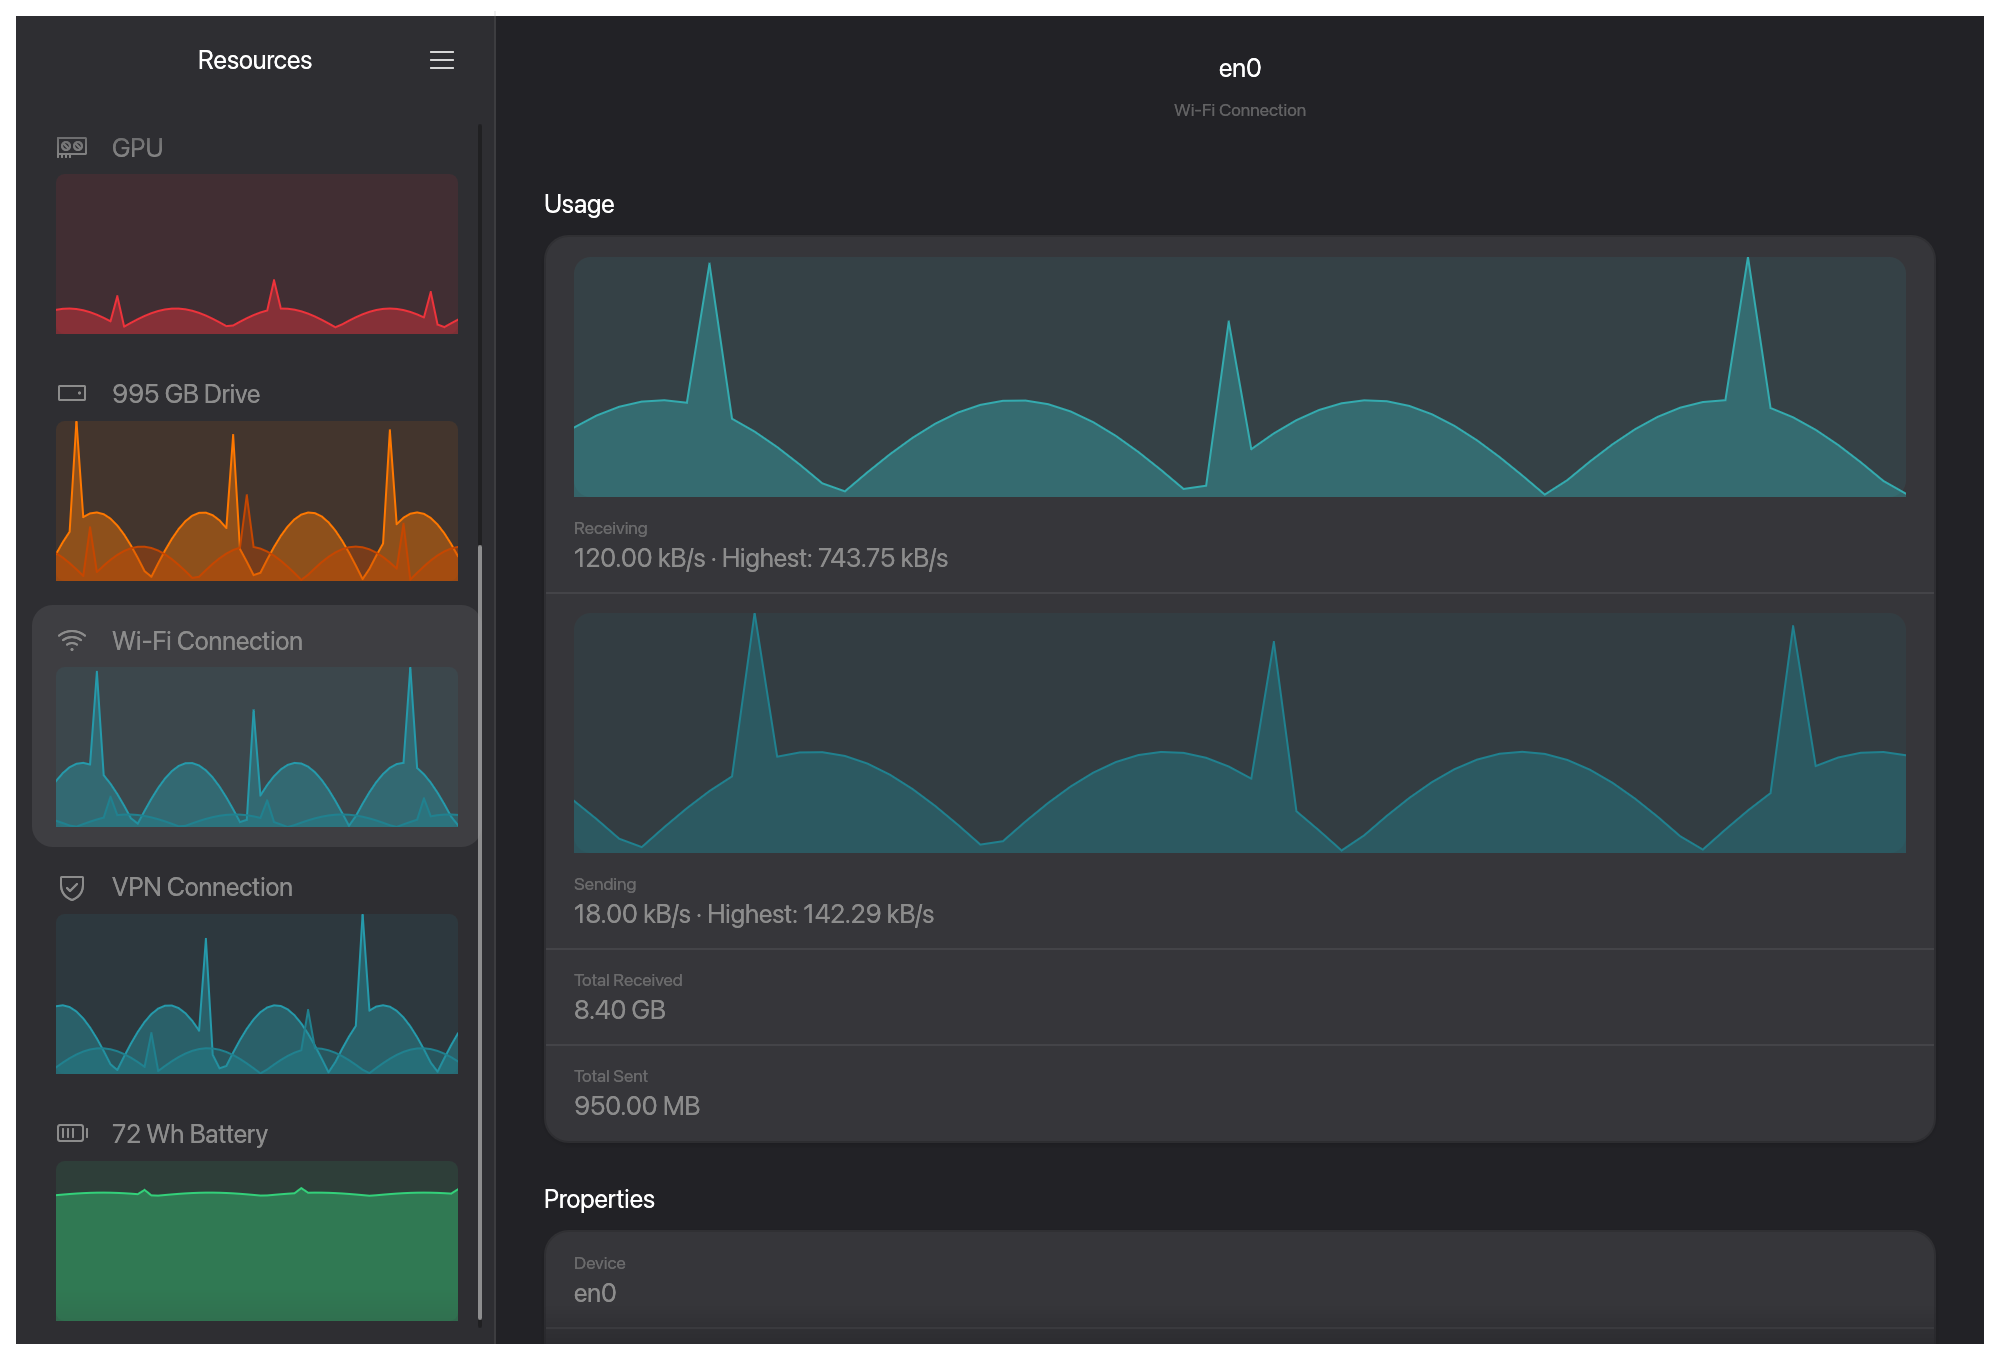
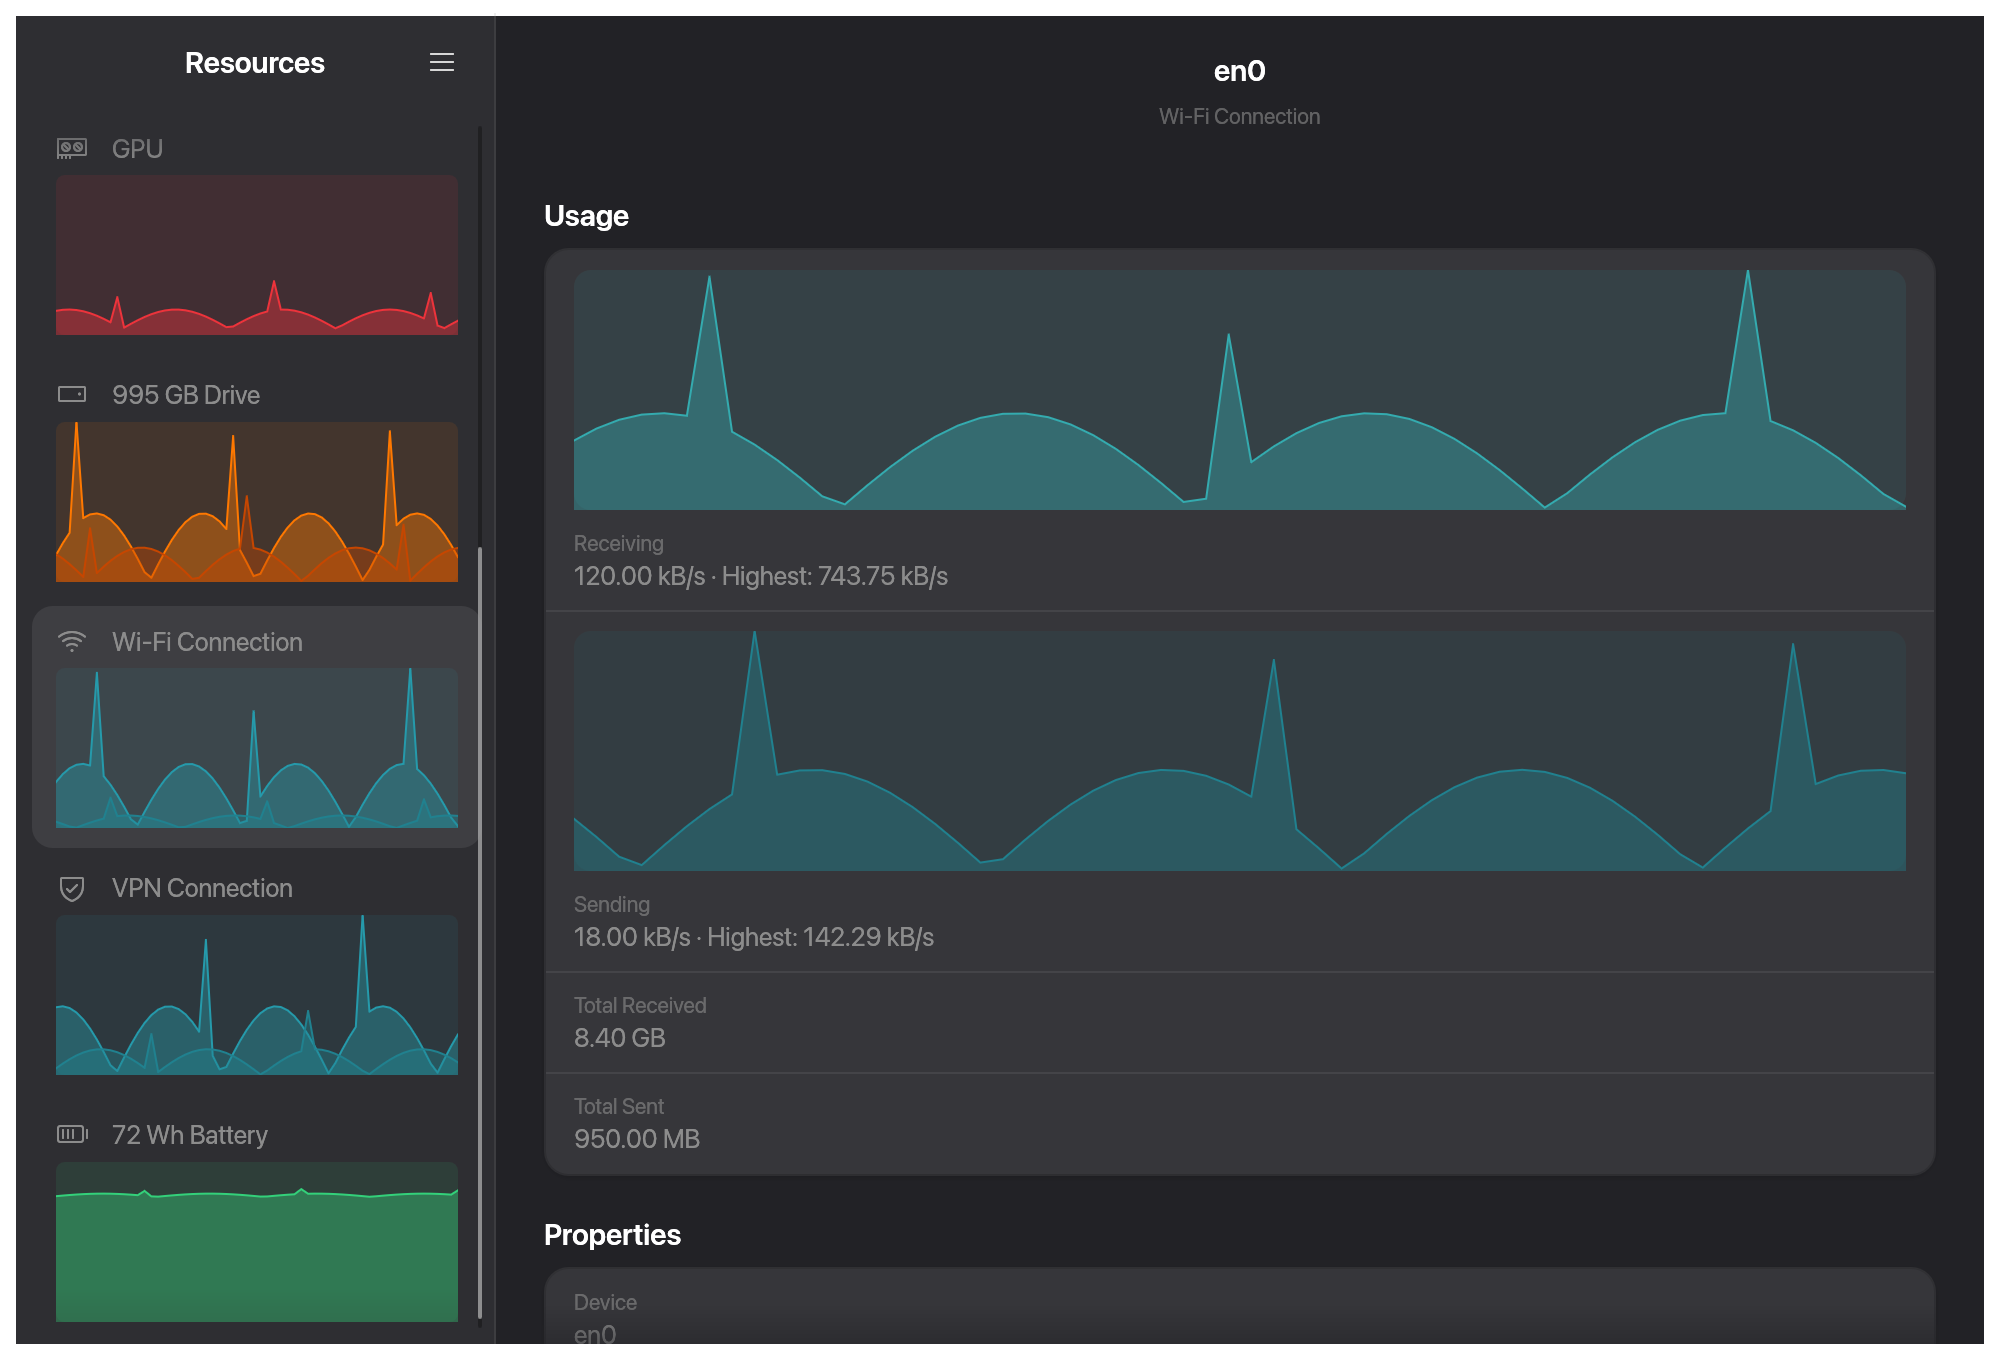
feat: readable type scale with semibold SF Pro titles
Small text was egui's default 9 pt and titles were regular weight at body
size. Set a macOS HIG scale (11 caption, 13 body, 15 title) and add a
semibold family from SF Pro's wght axis for page, group and column titles.

diff --git a/src/theme.rs b/src/theme.rs
@@ -3,13 +3,21 @@
 
 use std::sync::Arc;
 
-use egui::{Color32, FontData, FontDefinitions, FontFamily, Theme, Visuals};
+use egui::epaint::text::{FontTweak, VariationCoords};
+use egui::{Color32, FontData, FontDefinitions, FontFamily, FontId, TextStyle, Theme, Visuals};
 
 use crate::icons;
 
 const SF_PRO: &str = "/System/Library/Fonts/SFNS.ttf";
 
 pub const ACCENT: Color32 = Color32::from_rgb(0x35, 0x84, 0xE4);
+/// Font family for titles: SF Pro at weight 600 (regular-weight fallback without SF Pro).
+pub const SEMIBOLD: &str = "semibold";
+
+pub fn semibold() -> FontFamily {
+    FontFamily::Name(SEMIBOLD.into())
+}
+
 pub const DESTRUCTIVE: Color32 = Color32::from_rgb(0xE0, 0x1B, 0x24);
 
 /// Graph colours, copied from upstream `src/ui/pages/*.rs` (`MAIN_GRAPH_COLOR` and friends).
@@ -65,21 +73,34 @@ pub fn apply(ctx: &egui::Context) {
 
     let mut fonts = FontDefinitions::default();
     // SF Pro is read from the system at runtime (not bundled); egui's default font is the fallback.
+    let semibold = semibold();
+    let mut semibold_list = fonts.families[&FontFamily::Proportional].clone();
     if let Ok(bytes) = std::fs::read(SF_PRO) {
+        let bold = FontData::from_owned(bytes.clone()).tweak(FontTweak {
+            coords: VariationCoords::new([(b"wght", 600.0)]),
+            ..Default::default()
+        });
         fonts
             .font_data
             .insert("sf".into(), Arc::new(FontData::from_owned(bytes)));
+        fonts.font_data.insert("sf-semibold".into(), Arc::new(bold));
         fonts
             .families
             .entry(FontFamily::Proportional)
             .or_default()
             .insert(0, "sf".into());
+        semibold_list.insert(0, "sf-semibold".into());
     }
+    fonts.families.insert(semibold.clone(), semibold_list);
     fonts.font_data.insert(
         "phosphor".into(),
         Arc::new(FontData::from_static(icons::FONT)),
     );
-    for family in [FontFamily::Proportional, FontFamily::Monospace] {
+    for family in [
+        FontFamily::Proportional,
+        FontFamily::Monospace,
+        semibold.clone(),
+    ] {
         fonts
             .families
             .entry(family)
@@ -90,6 +111,15 @@ pub fn apply(ctx: &egui::Context) {
 
     for theme in [Theme::Light, Theme::Dark] {
         ctx.style_mut_of(theme, |style| {
+            // macOS HIG scale: 11 caption, 13 body, 15 semibold title.
+            style.text_styles = [
+                (TextStyle::Small, FontId::proportional(11.0)),
+                (TextStyle::Body, FontId::proportional(13.0)),
+                (TextStyle::Button, FontId::proportional(13.0)),
+                (TextStyle::Monospace, FontId::monospace(12.0)),
+                (TextStyle::Heading, FontId::new(15.0, semibold.clone())),
+            ]
+            .into();
             style.spacing.item_spacing = egui::vec2(8.0, 8.0);
             style.spacing.button_padding = egui::vec2(12.0, 6.0);
             let v = &mut style.visuals;

diff --git a/src/app.rs b/src/app.rs
@@ -9,7 +9,7 @@ use crate::devices::{self, battery_display_name, drive_display_name, net_display
 use crate::icons;
 use crate::pages;
 use crate::sampler::{NetStat, State};
-use crate::theme::{color, palette};
+use crate::theme::{self, color, palette};
 use crate::widgets::{Series, header_bar, icon_button, page_column, sidebar_item};
 
 /// Sidebar width, as in the GNOME screenshots.
@@ -218,7 +218,7 @@ impl App {
                 // Same baseline as the page header; the traffic lights sit to the left.
                 ui.add_space(6.0);
                 let title = ui
-                    .vertical_centered(|ui| ui.label(RichText::new("Resources").strong()))
+                    .vertical_centered(|ui| ui.label(RichText::new("Resources").heading().strong()))
                     .inner
                     .rect;
                 let at = egui::Rect::from_center_size(
@@ -295,7 +295,11 @@ fn about(ui: &Ui) -> bool {
         ui.set_width(320.0);
         ui.vertical_centered(|ui| {
             ui.label(RichText::new(icons::CPU).size(40.0).color(color::CPU));
-            ui.label(RichText::new("Resources").size(20.0).strong());
+            ui.label(
+                RichText::new("Resources")
+                    .size(20.0)
+                    .family(theme::semibold()),
+            );
             ui.label(RichText::new(env!("CARGO_PKG_VERSION")).weak());
             ui.add_space(8.0);
             ui.label("A system monitor for macOS, inspired by GNOME Resources.");

diff --git a/src/widgets.rs b/src/widgets.rs
@@ -170,7 +170,7 @@ pub fn sidebar_item(
 pub fn header_bar(ui: &mut Ui, title: &str, subtitle: Option<&str>) {
     ui.vertical_centered(|ui| {
         ui.add_space(if subtitle.is_some() { 4.0 } else { 12.0 });
-        ui.label(RichText::new(title).strong());
+        ui.label(RichText::new(title).heading().strong());
         if let Some(sub) = subtitle {
             ui.label(RichText::new(sub).small().weak());
         }
@@ -197,7 +197,7 @@ pub fn page_column<R>(ui: &mut Ui, add: impl FnOnce(&mut Ui) -> R) -> R {
 /// Bold group title followed by its content (upstream `AdwPreferencesGroup`).
 pub fn group<R>(ui: &mut Ui, title: &str, add: impl FnOnce(&mut Ui) -> R) -> R {
     ui.add_space(12.0);
-    ui.label(RichText::new(title).strong());
+    ui.label(RichText::new(title).heading().strong());
     add(ui)
 }
 
@@ -316,9 +316,13 @@ pub fn destructive_button(ui: &mut Ui, label: &str, enabled: bool) -> Response {
     let red = crate::theme::DESTRUCTIVE;
     ui.add_enabled(
         enabled,
-        egui::Button::new(RichText::new(label).strong().color(red))
-            .fill(red.gamma_multiply(0.15))
-            .corner_radius(8),
+        egui::Button::new(
+            RichText::new(label)
+                .family(crate::theme::semibold())
+                .color(red),
+        )
+        .fill(red.gamma_multiply(0.15))
+        .corner_radius(8),
     )
 }
 

diff --git a/tests/typography.rs b/tests/typography.rs
@@ -1,0 +1,37 @@
+use egui::{FontFamily, TextStyle};
+use egui_kittest::Harness;
+use resources_mac::theme;
+
+fn ctx() -> egui::Context {
+    let h = Harness::builder()
+        .with_context_setup(theme::apply)
+        .build_ui(|ui| {
+            ui.heading("Title");
+        });
+    h.ctx.clone()
+}
+
+#[test]
+fn text_styles_are_readable() {
+    let ctx = ctx();
+    for theme in [egui::Theme::Light, egui::Theme::Dark] {
+        let styles = ctx.style_of(theme).text_styles.clone();
+        for (style, font) in &styles {
+            assert!(font.size >= 11.0, "{style:?} is {} pt", font.size);
+        }
+        let size = |s: TextStyle| styles[&s].size;
+        assert!(size(TextStyle::Heading) > size(TextStyle::Body));
+        assert!(size(TextStyle::Body) > size(TextStyle::Small));
+    }
+}
+
+#[test]
+fn heading_uses_semibold_family() {
+    let ctx = ctx();
+    let semibold = FontFamily::Name(theme::SEMIBOLD.into());
+    assert_eq!(
+        ctx.style_of(egui::Theme::Light).text_styles[&TextStyle::Heading].family,
+        semibold
+    );
+    assert!(ctx.fonts(|f| f.families()).contains(&semibold));
+}

diff --git a/src/table.rs b/src/table.rs
@@ -54,8 +54,15 @@ pub fn header(ui: &mut egui::Ui, label: &str, this: SortCol, col: &mut SortCol, 
     } else {
         label.to_owned()
     };
-    let resp =
-        ui.add(egui::Button::new(egui::RichText::new(text).small().strong().weak()).frame(false));
+    let resp = ui.add(
+        egui::Button::new(
+            egui::RichText::new(text)
+                .small()
+                .family(crate::theme::semibold())
+                .weak(),
+        )
+        .frame(false),
+    );
     resp.widget_info(|| egui::WidgetInfo::labeled(egui::Role::ColumnHeader, true, label));
     if resp.clicked() {
         if *col == this {
